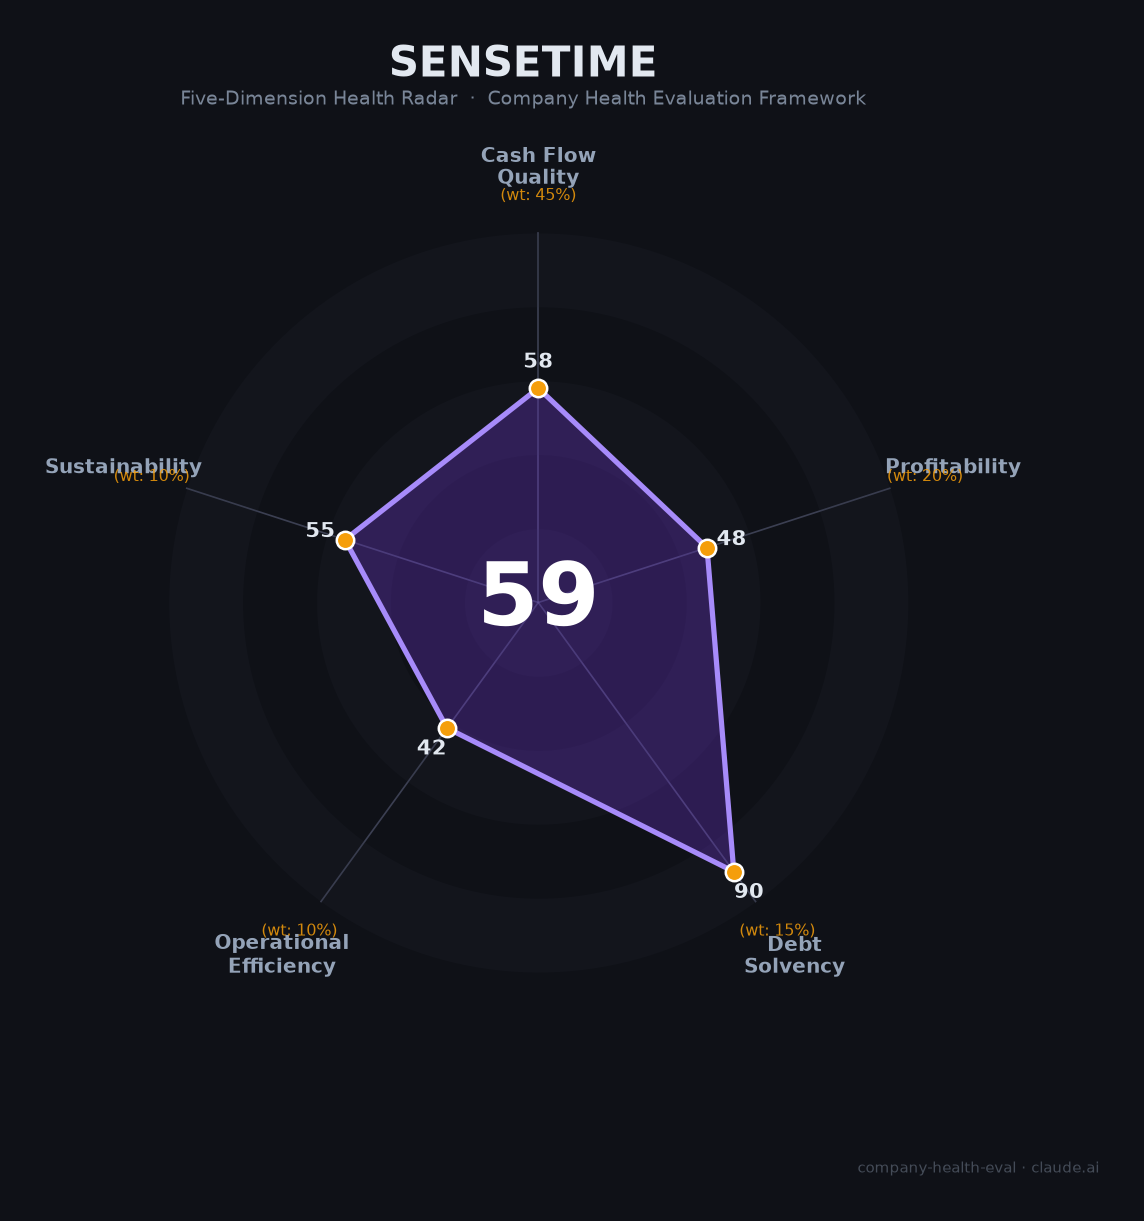
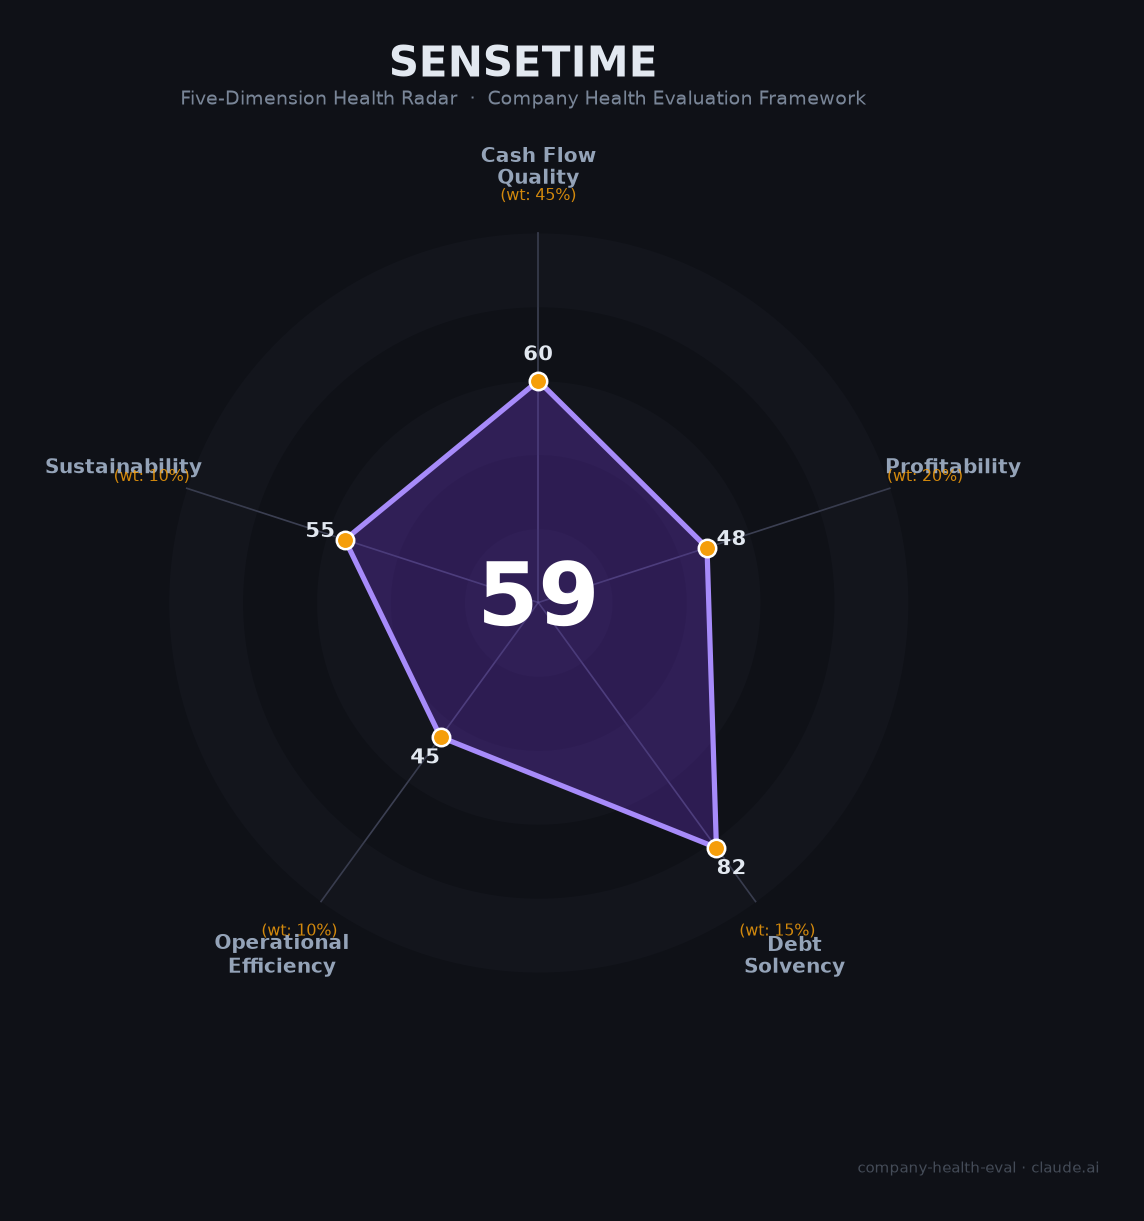
fix: correct SenseTime debt data — ¥5.7B interest-bearing debt, not zero
Updated scores: Cash Flow 58→60, Debt 90→82, Operations 42→45.
Total unchanged at 59 (Moderate).

diff --git a/docs/examples/商汤科技-财务健康评估-2026-06-12.md b/docs/examples/商汤科技-财务健康评估-2026-06-12.md
@@ -26,19 +26,19 @@
 
 ## 二、五维财务健康评估
 
-### 1. 现金流质量（58/100）🟠
+### 1. 现金流质量（60/100）🟠
 
 | 评估指标 | 状态 | 判断 | 依据 |
 |----------|------|------|------|
 | 经营现金流净额 | 2023 -32.34亿 → 2024 -39.26亿 → 2025 -3.01亿 | 🟠 关注 | 🔒 年报。三年均为负，但2025年收窄92%，H2首次单季转正（Q4 +3.31亿） |
-| 现金及等价物 | >100亿人民币 | 🟢 健康 | 📊 2024H1为76.2亿，加上2025年配股融资约56亿港元，现金储备充足 |
-| 有息负债 | 几乎为0 | 🟢 健康 | 🔒 资产负债率仅30.4%，几乎全为经营负债（应付账款+合同负债），无银行贷款 |
-| 应收周转天数 | 从334天（2023）改善至129天（2025） | 🟡 关注 | 🔒 年报。大幅改善但仍偏高，B2B大客户模式回款周期长 |
-| 净现比 | N/A（连年亏损，但2025 OCF亏损3亿 vs 净亏17.7亿） | 🟡 关注 | 📊 OCF改善速度远超净利改善速度，预收款/合同负债模式支撑现金流 |
+| 现金及等价物 | 108.87亿元（2025年末） | 🟢 健康 | 🔒 年报。同比+22.5%；含股权及债券投资总现金约142亿元，充裕 |
+| 有息负债 | 短期20.14亿+长期37.10亿=57.24亿元 | 🟡 可控 | 🔒 年报。资产有息负债率15%，债务/股东权益22.3%。现金覆盖1.9倍 |
+| 应收周转天数 | 从481天（2023）→297天（2024）→179.5天（2025） | 🟡 改善中 | 🔒 年报。两年压缩63%，趋势极好，但仍偏高（B2B/B2G大客户回款慢） |
+| 净现比 | N/A（连年亏损，但2025 OCF仅亏3亿 vs 净亏17.7亿） | 🟡 关注 | 📊 OCF改善速度远超净利，预收款/合同负债模式支撑现金流 |
 
-**本维度分析**：商汤的现金流故事是一部「配股续命史」——靠5次配售融资超136亿港元支撑运营，经营现金流至今未全年转正。但2025年是分水岭：下半年经营现金流转正，全年仅亏3亿。若无重大意外，2026年有望实现全年OCF转正。现金储备充沛（100亿+），零有息负债。
+**本维度分析**：商汤的现金流经历了从「危重」到「趋稳」的转变。经营现金流仍为负但已接近盈亏平衡（全年仅-3亿，H2已转正）。现金储备108.87亿元，覆盖有息负债约1.9倍。值得注意：2025年短期借款同比增62.4%（用于AIDC算力建设），但长期借款同比减20.7%，整体债务结构在主动优化。自由现金流（OCF-CapEx）仍为-37.9亿，算力建设是未来1-2年的现金消耗主因。
 
-**扣分项**：三年经营现金流连续为负，高度依赖股权融资输血（稀释现有股东）。
+**扣分项**：三年经营现金流连续为负；CapEx高企拖累FCF。
 
 ---
 
@@ -58,23 +58,23 @@
 
 ---
 
-### 3. 偿债能力（90/100）🟢
+### 3. 偿债能力（82/100）🟢
 
 | 评估指标 | 状态 | 判断 | 依据 |
 |----------|------|------|------|
-| 资产负债率 | 2023 29.6% → 2024 31.7% → 2025 30.4% | 🟢 健康 | 🔒 年报。核心负债为应付账款+合同负债（经营负债），非有息债务 |
-| 有息负债率 | 约0% | 🟢 健康 | 🔒 无银行贷款、无债券。全部资金来自股权融资 |
-| 流动比率 | >3（现金100亿+ vs 流动经营负债约30亿+） | 🟢 健康 | 📊 基于资产负债率倒推和现金余额估算 |
-| 现金比率 | >1 | 🟢 健康 | 📊 现金储备充沛 |
+| 资产负债率 | 2023 29.6% → 2024 31.7% → 2025 30.4% | 🟢 健康 | 🔒 年报。总负债118.45亿，总资产389.06亿 |
+| 有息负债率 | 资产有息负债率15%（57.24亿÷389亿） | 🟡 关注 | 🔒 年报。短期借款20.14亿+长期借款37.10亿。债务/股东权益22.3% |
+| 流动比率 | 3.28倍（流动资产207.51亿÷流动负债63.34亿） | 🟢 健康 | 🔒 年报。短期偿债能力极强 |
+| 现金比率 | 现金108.87亿覆盖短期借款20.14亿的5.4倍 | 🟢 健康 | 🔒 年报。现金充沛，远超即期债务 |
 | 股权质押比例 | 0% | 🟢 健康 | 🔒 上市主体无股权质押 |
 
-**本维度分析**：商汤最健康的维度。零有息负债、低资产负债率、充沛现金——资产负债表极为干净。但这背后是另一种代价：频繁配股融资稀释了现有股东权益（2年5次配售）。
+**本维度分析**：资产负债表整体健康——低杠杆（30.4%）、高流动性（流动比率3.28）、现金覆盖短期债务5.4倍。但有息负债并非为零：2025年末合计约57.24亿元（短期20.14亿+长期37.10亿），资产有息负债率15%，落在「关注」区间。好消息是：现金108.87亿足以覆盖全部有息负债（1.9倍），且长期借款在主动缩减（同比-20.7%）。短期借款同比增62.4%是为AIDC算力建设融资，属于战略性投入而非流动性危机。
 
-**加分项**：零有息负债 → 偿债能力维度最高评级。
+**扣分项**：有息负债率15%处于「关注」区间（非零负债），短期借款增速较快。
 
 ---
 
-### 4. 运营效率（42/100）🔴
+### 4. 运营效率（45/100）🔴
 
 | 评估指标 | 状态 | 判断 | 依据 |
 |----------|------|------|------|
@@ -107,10 +107,10 @@
 
 | 维度 | 得分 | 权重 | 加权得分 | 简评 |
 |------|------|------|-----------|------|
-| 现金流质量 | 58 | 45% | 26.1 | 三年OCF为负，靠配股续命，但2025H2首次转正 |
+| 现金流质量 | 60 | 45% | 27.0 | 三年OCF为负，但2025H2首次转正，现金109亿充沛 |
 | 盈利能力 | 48 | 20% | 9.6 | 累计亏损563亿未盈利，但2025大幅收窄 |
-| 偿债能力 | 90 | 15% | 13.5 | 零负债+百亿现金，极干净的最强项 |
-| 运营效率 | 42 | 10% | 4.2 | 5年裁员60%+创始人逝世+高管流失 |
+| 偿债能力 | 82 | 15% | 12.3 | 有息负债57亿但可控（有息负债率15%），流动性极强 |
+| 运营效率 | 45 | 10% | 4.5 | 5年裁员60%+创始人逝世+高管流失，但回款在加速改善 |
 | 可持续发展 | 55 | 10% | 5.5 | AI大模型赛道极好，但美国制裁是结构性约束 |
 | **综合得分** | **—** | **100%** | **58.9 ≈ 59** | **🟠 中等** |
 
